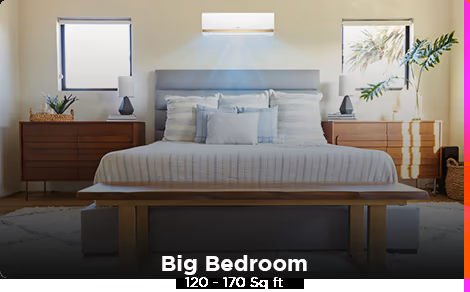
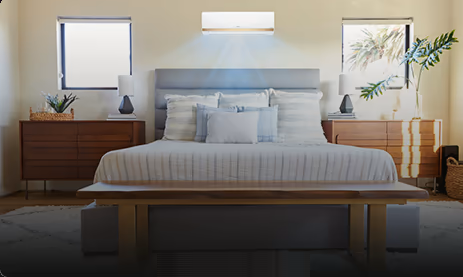
image manupulated and alignment change

diff --git a/acm_frontend/src/App.js b/acm_frontend/src/App.js
@@ -4,10 +4,12 @@ import "./App.css";
 
 var path = process.env.PUBLIC_URL;
 
-const Tile = ({ title, image }) => {
+const Tile = ({ title, description, image }) => {
   return (
     <div className="tile">
       <img src={image} alt={title} />
+      <p className="tile-description">{description}</p>
+      <h3 className="tile-title">{title}</h3>
     </div>
   );
 };
@@ -18,7 +20,7 @@ const Category = ({ title, tiles }) => {
       <h2>{title}</h2>
       <div className="tile-container">
         {tiles.map((tile, index) => (
-          <Tile key={index} title={tile.title} image={path +tile.image} />
+          <Tile key={index} title={tile.title} description={tile.description} image={path +tile.image} />
         ))}
       </div>
     </div>
@@ -31,18 +33,18 @@ const HomePage = () => {
     {
       title: 'Size Up Your Room',
       tiles: [
-        { title: 'Small Bedroom', image:  '/media/tiles/thumbnail/small_bedroom.png' },
-        { title: 'Big Bedroom', image: '/media/tiles/thumbnail/big_bedroom.png' },
-        { title: 'Living Room', image: '/media/tiles/thumbnail/living_room.png' }
+        { title: 'Small Bedroom', description:'120-170 sq.ft.', image:  '/media/tiles/thumbnail/small_bedroom.png' },
+        { title: 'Big Bedroom',description:'120-170 sq.ft.',  image: '/media/tiles/thumbnail/big_bedroom.png' },
+        { title: 'Living Room', description:'120-170 sq.ft.', image: '/media/tiles/thumbnail/living_room.png' }
       ]
     },
     {
       title: 'Choose Your Type',
       tiles: [
-        { title: 'Split AC', image: '/media/tiles/thumbnail/split_ac.png' },
-        { title: 'Window AC', image: '/media/tiles/thumbnail/window_ac.png' },
-        { title: 'Portable AC', image: '/media/tiles/thumbnail/portable_ac.png' },
-        { title: 'Hot and Cold AC', image: '/media/tiles/thumbnail/hotncold_ac.png' }
+        { title: 'Split AC', description:'120-170 sq.ft.', image: '/media/tiles/thumbnail/split_ac.png' },
+        { title: 'Window AC', description:'120-170 sq.ft.', image: '/media/tiles/thumbnail/window_ac.png' },
+        { title: 'Portable AC', description:'120-170 sq.ft.', image: '/media/tiles/thumbnail/portable_ac.png' },
+        { title: 'Hot and Cold AC', description:'120-170 sq.ft.', image: '/media/tiles/thumbnail/hotncold_ac.png' }
       ]
     }
   ];

diff --git a/acm_frontend/src/App.css b/acm_frontend/src/App.css
@@ -38,7 +38,7 @@
 }
 
 .category {
-  margin-bottom: 20px;
+  margin-bottom: 10px;
 }
 
 .tile-container {
@@ -47,4 +47,13 @@
 
 .tile {
   margin-right: 10px;
+  margin-bottom: 0px;
+}
+.tile-title {
+  text-align: center;
+  margin-bottom: 0px;
+}
+
+.tile-description{
+  text-align: center;
 }
